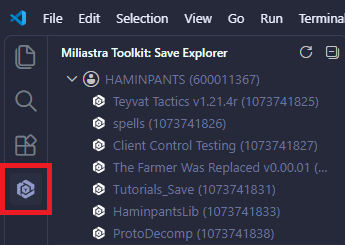
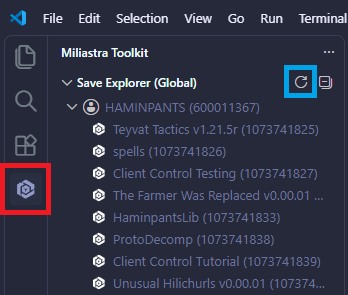
update save explorer description

diff --git a/README.md b/README.md
@@ -55,7 +55,7 @@ Hover over the "Miliastra" status bar entry to diagnose common issues. Click the
 ## Miliastra Toolkit
 The Miliastra Toolkit is a view added to the activity bar, enabling quick access to saves on the local device.
 ### Save Explorer
-The Save Explorer is the primary view displayed in the Miliastra Toolkit, allowing you to quickly open  saves on your device. Clicking a stage entry will automatically open that save in VS Code. Use the refresh button to update the listed stages.
+The Save Explorer is the primary view displayed in the Miliastra Toolkit, allowing you to quickly open  saves on your device. Clicking a stage entry will automatically open that save in VS Code. The refresh button highlighted in blue can be used to update the listed stages.
 
 ![A screenshot showing an example of the Save Explorer.](/resources/readme/toolkit_save_explorer.png)
 
